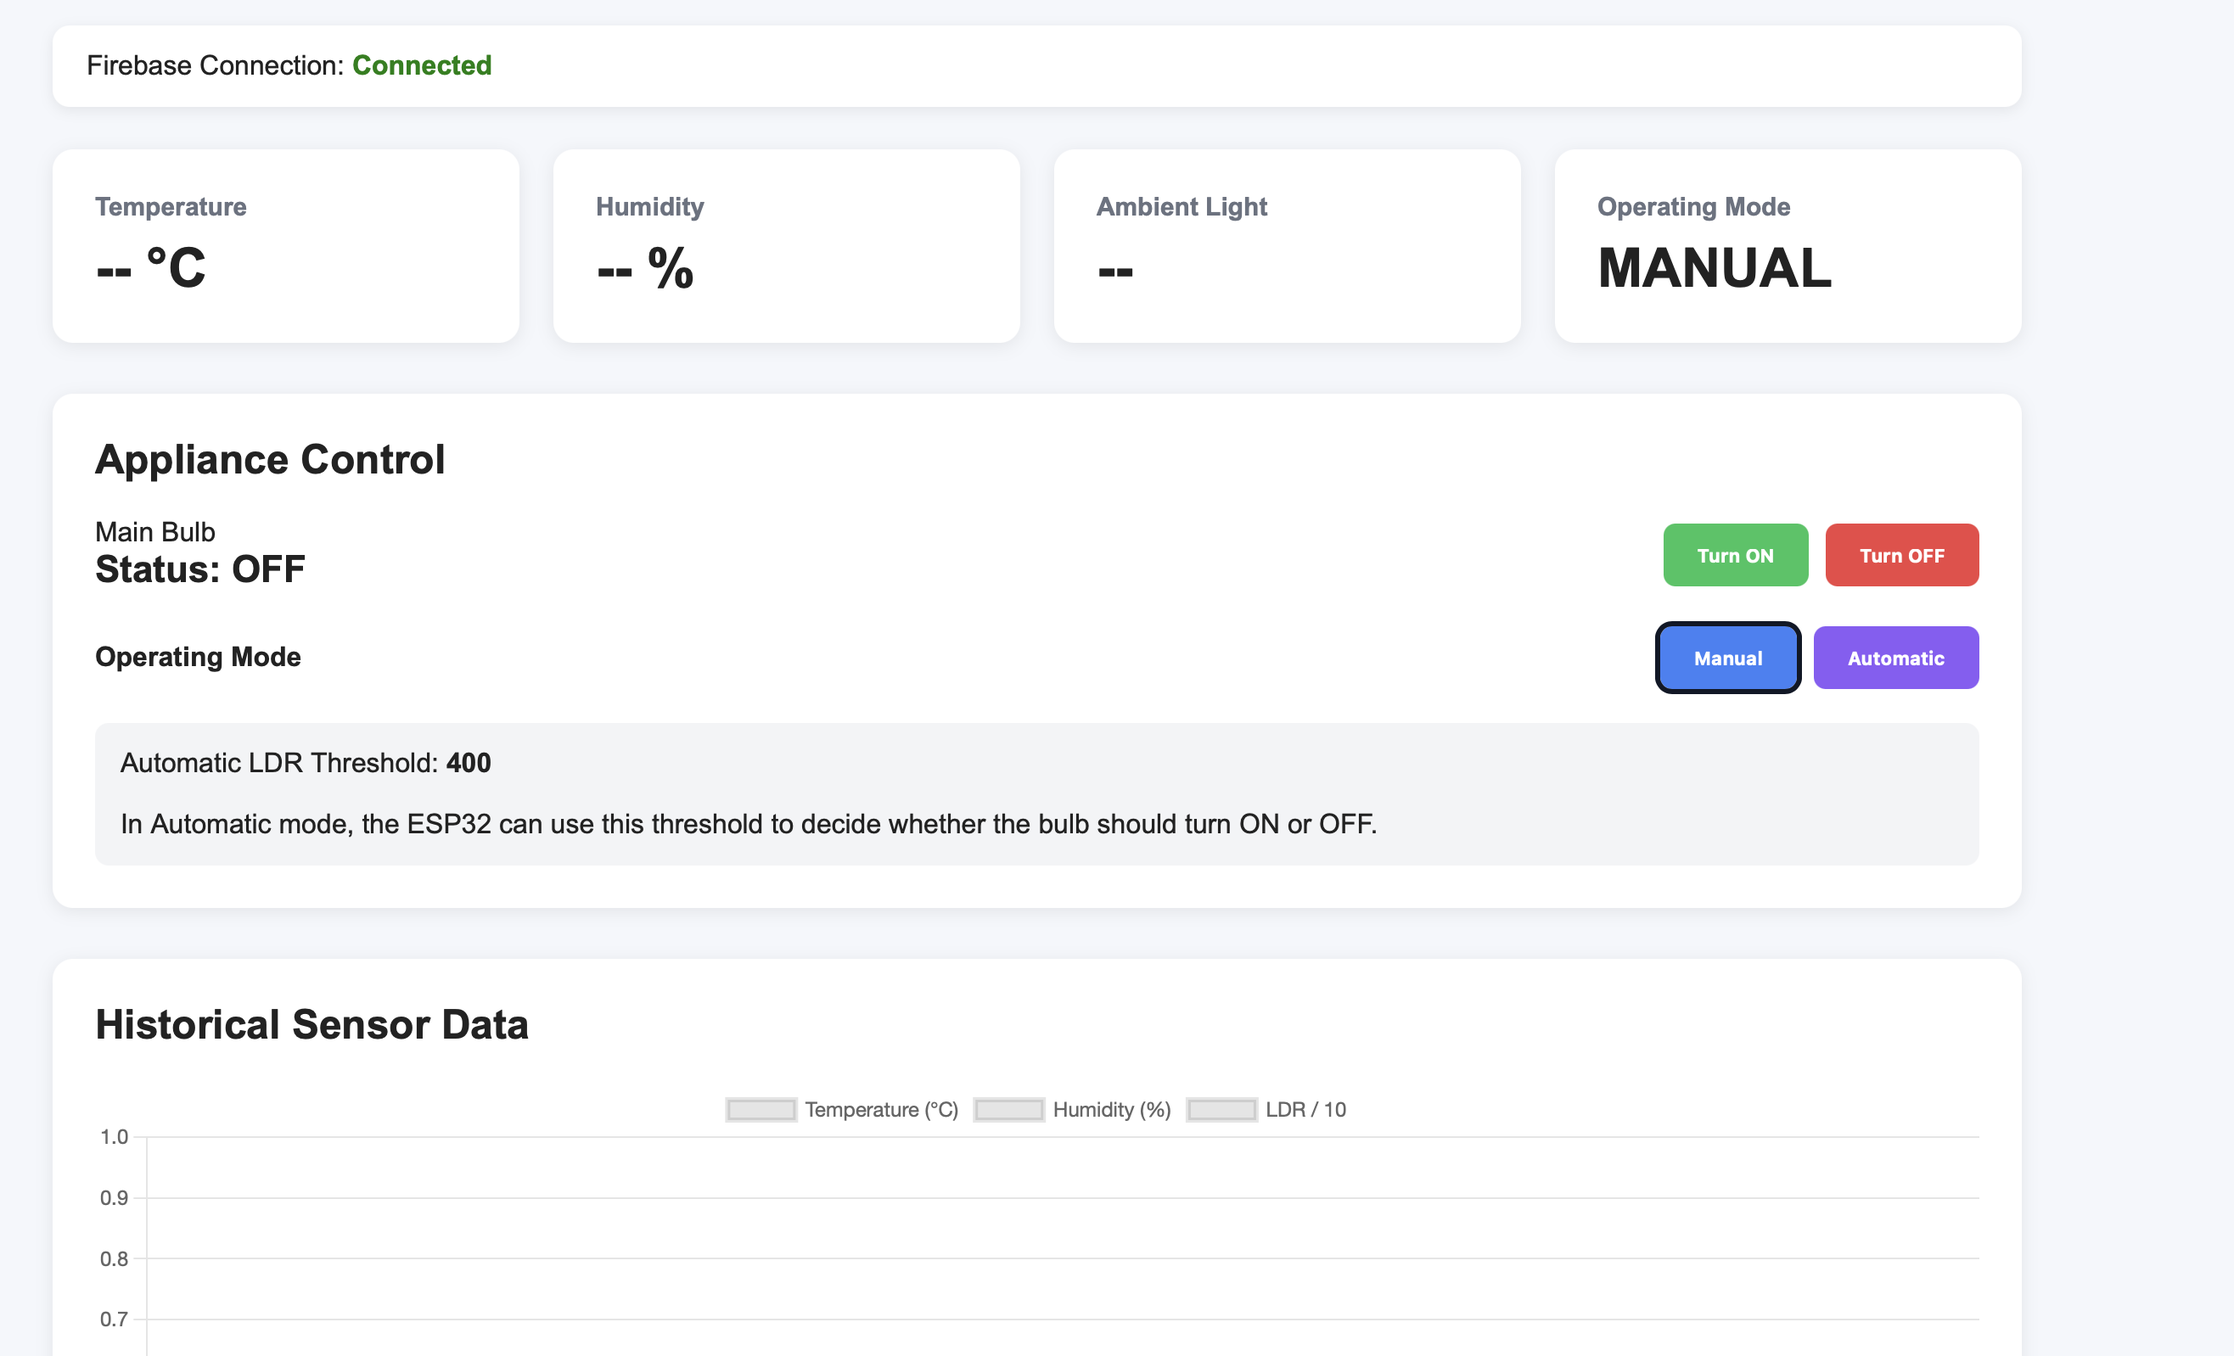
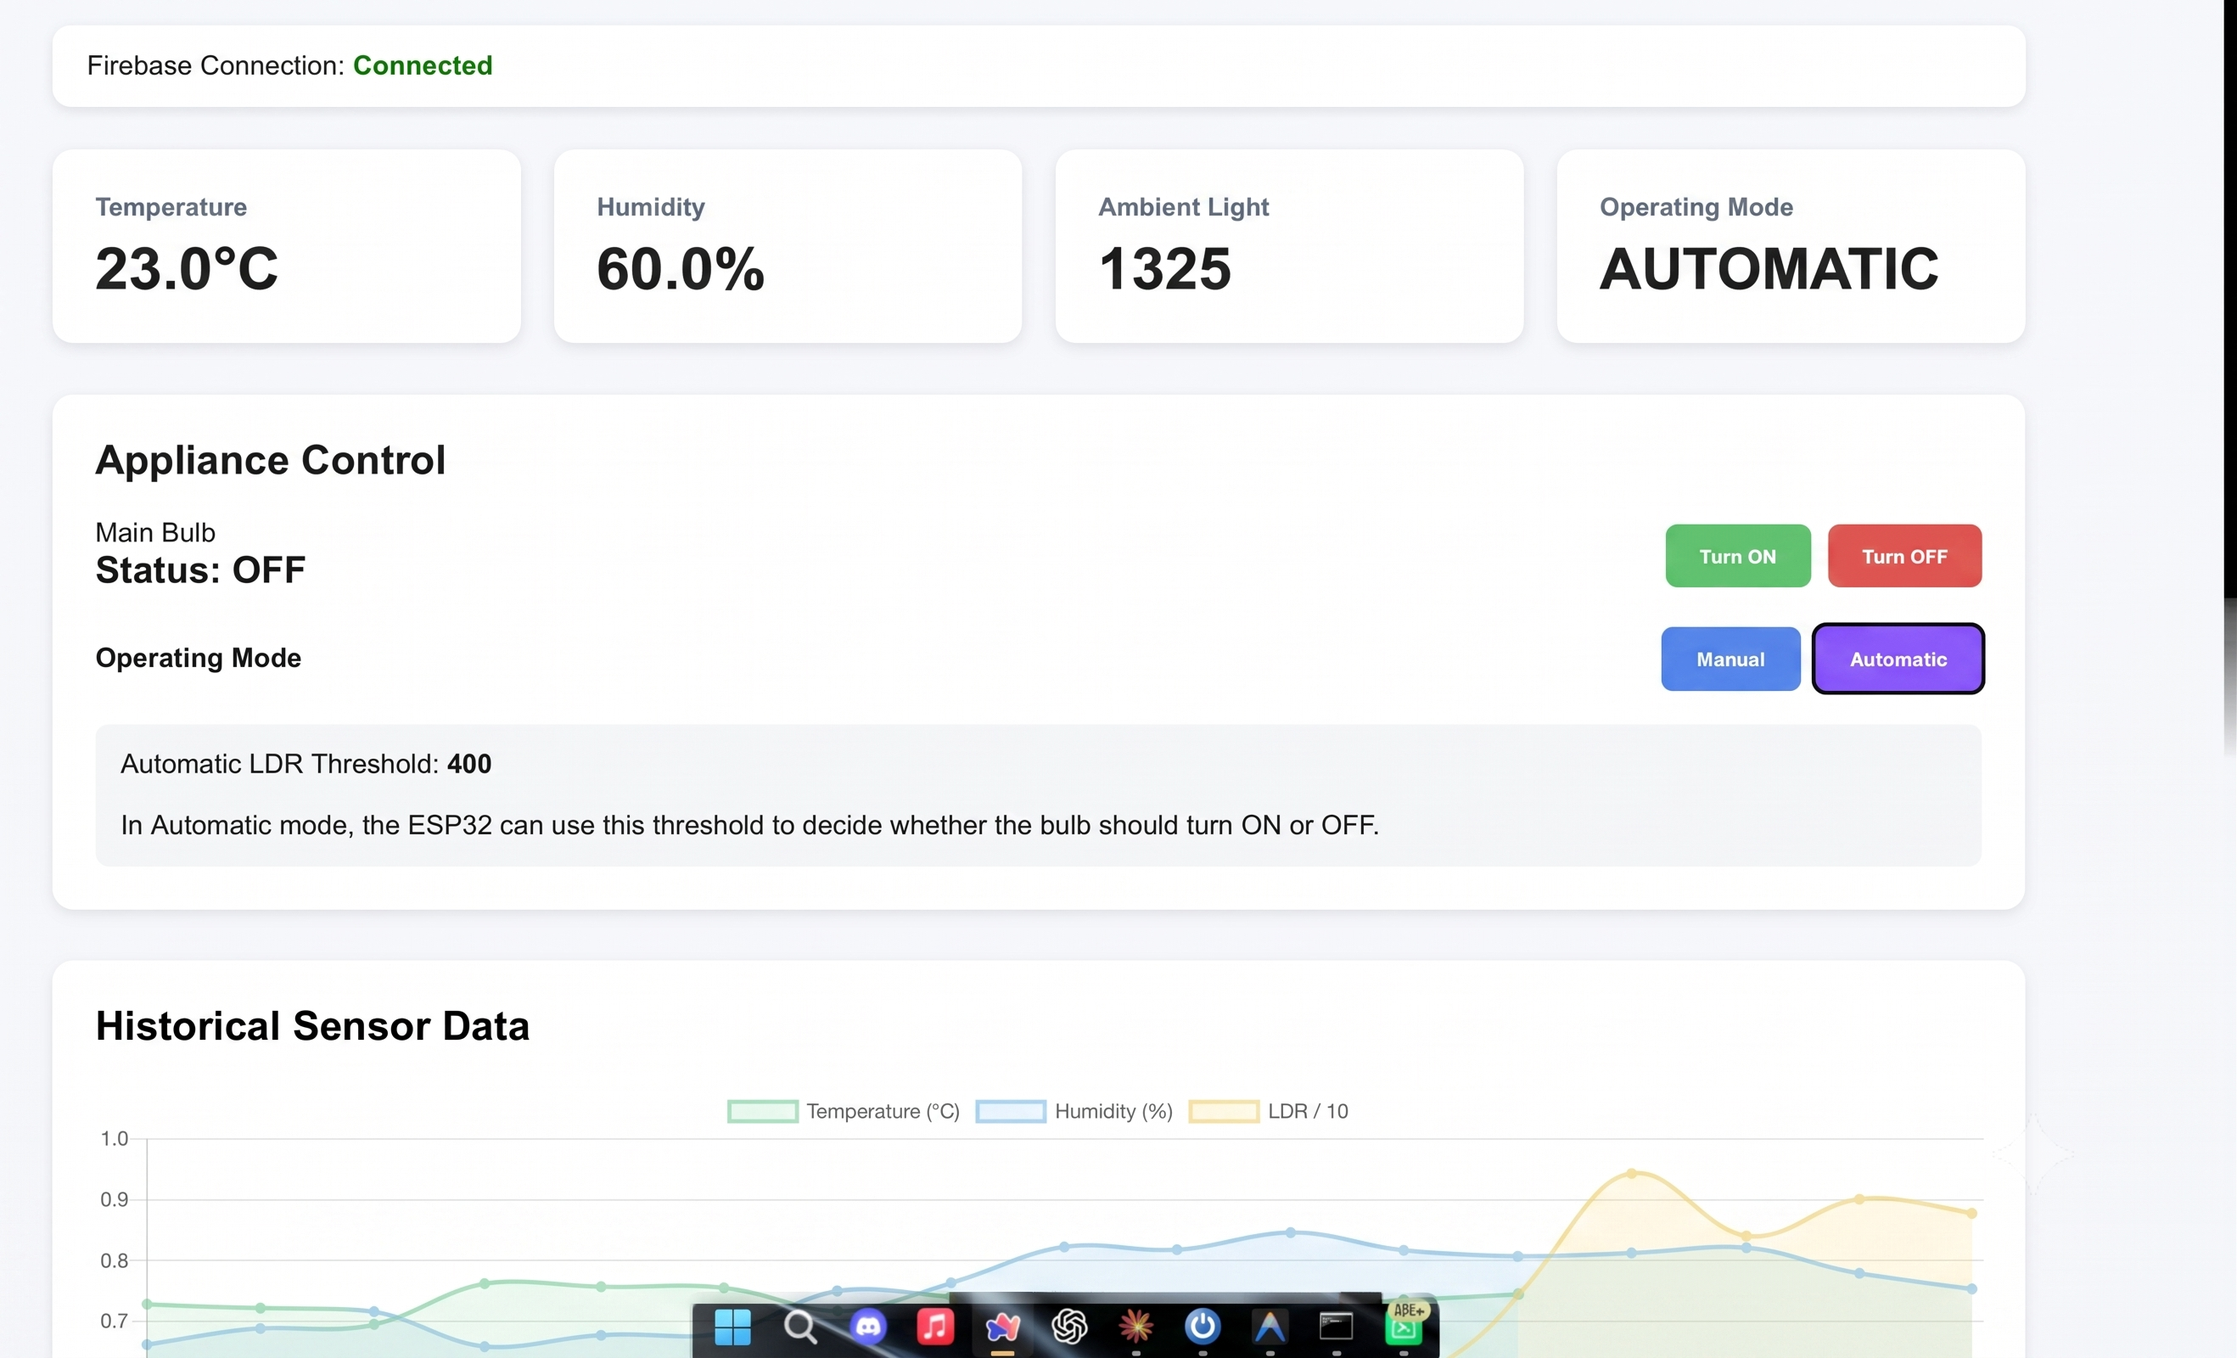
Split Task 4 into Dashboard Connection (Task 4) and Forge Smart Home (Task 5), update dashboard image

diff --git a/app/iot-session/page.tsx b/app/iot-session/page.tsx
@@ -72,7 +72,13 @@ export default function IoTSessionPage() {
                 href="#task4"
                 className="rounded-full border border-base-border bg-base-surface px-4 py-2 text-xs font-medium text-ink-muted transition-colors hover:border-signal hover:text-ink focus-ring"
               >
-                Task 4 · Forge Smart Home
+                Task 4 · Dashboard Connection
+              </a>
+              <a
+                href="#task5"
+                className="rounded-full border border-base-border bg-base-surface px-4 py-2 text-xs font-medium text-ink-muted transition-colors hover:border-signal hover:text-ink focus-ring"
+              >
+                Task 5 · Forge Smart Home
               </a>
             </div>
           </Reveal>
@@ -133,7 +139,7 @@ export default function IoTSessionPage() {
               <div className="mt-1 text-xs text-ink-faint">Cloud Integrations</div>
             </div>
             <div className="bg-base-surface p-6">
-              <div className="font-display text-3xl font-bold text-ink">4 / 4</div>
+              <div className="font-display text-3xl font-bold text-ink">5 / 5</div>
               <div className="mt-1 text-xs text-ink-faint">Tasks Complete</div>
             </div>
           </div>
@@ -184,6 +190,19 @@ export default function IoTSessionPage() {
             <div className="flex flex-col sm:flex-row sm:items-center justify-between py-5 gap-2">
               <div className="flex items-baseline gap-4">
                 <span className="font-mono text-xs text-ink-faint">04</span>
+                <div>
+                  <h3 className="font-display text-lg font-semibold text-ink">Dashboard Connection</h3>
+                  <p className="text-xs text-ink-faint mt-0.5">Firebase · Web Dashboard</p>
+                </div>
+              </div>
+              <span className="font-mono text-xs text-signal bg-signal/10 px-3 py-1 rounded-full border border-signal/30 w-fit">
+                Day 4
+              </span>
+            </div>
+
+            <div className="flex flex-col sm:flex-row sm:items-center justify-between py-5 gap-2">
+              <div className="flex items-baseline gap-4">
+                <span className="font-mono text-xs text-ink-faint">05</span>
                 <div>
                   <h3 className="font-display text-lg font-semibold text-ink">Forge Smart Home</h3>
                   <p className="text-xs text-ink-faint mt-0.5">ESP32 · Firebase · Web Dashboard</p>
@@ -559,6 +578,32 @@ void loop() {
             Task 04
           </div>
           <h2 className="font-display text-3xl md:text-4xl font-bold text-ink">
+            Dashboard Connection
+          </h2>
+          <p className="mt-2 text-xs font-mono text-ink-faint">
+            Firebase · Web Dashboard
+          </p>
+          <p className="mt-6 leading-relaxed text-ink-muted">
+            Connecting the web dashboard to the cloud backend to view real-time sensor data and control appliances.
+            A cloud-based dashboard decouples the UI from the physical hardware, allowing for global access and real-time updates.
+          </p>
+          <div className="mt-10">
+            <MediaSlot
+              type="image"
+              src="/media/iot/task4-dash/dashboard-full.jpg"
+              alt="Dashboard Connection"
+              label="Dashboard Connection Interface"
+              className="w-full shadow-2xl"
+            />
+          </div>
+        </section>
+
+        {/* ==================== TASK 5 ==================== */}
+        <section id="task5" className="scroll-mt-28 border-t border-base-border pt-16 mb-24">
+          <div className="font-mono text-xs uppercase tracking-[0.2em] text-signal font-semibold mb-3">
+            Task 05
+          </div>
+          <h2 className="font-display text-3xl md:text-4xl font-bold text-ink">
             Forge — Full-Stack Smart Home Platform
           </h2>
           <p className="mt-2 text-xs font-mono text-ink-faint">
@@ -574,7 +619,7 @@ void loop() {
           {/* EVALUATION FIX PACKAGE BADGE */}
           <div className="mt-6 rounded-xl border border-signal/40 bg-signal/10 p-4">
             <div className="flex items-center gap-2 font-display text-sm font-semibold text-signal">
-              <CheckCircle2 size={16} /> Task 4 Evaluation Fix Package Applied — All 27 Criteria &amp; Mode Logic Resolved
+              <CheckCircle2 size={16} /> Task 5 Evaluation Fix Package Applied — All 27 Criteria &amp; Mode Logic Resolved
             </div>
             <p className="mt-1 text-xs text-ink-muted leading-relaxed">
               Includes full ready-to-paste explanatory content for all 12 flagged criteria (Part A) and Issue 3 firmware/dashboard logic for Manual &amp; Automatic operating modes (Part B).
@@ -752,9 +797,9 @@ DHT11 + LDR                                              Dashboard (dashboard.js
             </p>
           </div>
 
-          {/* 4.1 HARDWARE */}
+          {/* 5.1 HARDWARE */}
           <div className="mt-12 rounded-2xl border border-base-border bg-base-surface/40 p-8">
-            <div className="font-mono text-xs text-signal uppercase tracking-wider font-semibold">Task 04.1 — Hardware</div>
+            <div className="font-mono text-xs text-signal uppercase tracking-wider font-semibold">Task 05.1 — Hardware</div>
             <h3 className="font-display text-2xl font-bold text-ink mt-2">
               ESP32 Environmental Monitoring &amp; Relay Control
             </h3>
@@ -1006,9 +1051,9 @@ void loop() {
             />
           </div>
 
-          {/* 4.2 CLOUD */}
+          {/* 5.2 CLOUD */}
           <div className="mt-8 rounded-2xl border border-base-border bg-base-surface/40 p-8">
-            <div className="font-mono text-xs text-signal uppercase tracking-wider font-semibold">Task 04.2 — Cloud</div>
+            <div className="font-mono text-xs text-signal uppercase tracking-wider font-semibold">Task 05.2 — Cloud</div>
             <h3 className="font-display text-2xl font-bold text-ink mt-2">
               Firebase Cloud Backend &amp; Real-Time Sync
             </h3>
@@ -1110,9 +1155,9 @@ void loop() {
             </div>
           </div>
 
-          {/* 4.3 DASHBOARD */}
+          {/* 5.3 DASHBOARD */}
           <div className="mt-8 rounded-2xl border border-base-border bg-base-surface/40 p-8">
-            <div className="font-mono text-xs text-signal uppercase tracking-wider font-semibold">Task 04.3 — Dashboard</div>
+            <div className="font-mono text-xs text-signal uppercase tracking-wider font-semibold">Task 05.3 — Dashboard</div>
             <h3 className="font-display text-2xl font-bold text-ink mt-2">
               Web Dashboard &amp; User Interface
             </h3>

diff --git a/app/iot/page.tsx b/app/iot/page.tsx
@@ -63,7 +63,13 @@ export default function IoTPage() {
                 href="#task4"
                 className="rounded-full border border-base-border bg-base-surface px-4 py-2 text-xs font-medium text-ink-muted transition-colors hover:border-signal hover:text-ink focus-ring"
               >
-                Task 4 · Forge Smart Home
+                Task 4 · Dashboard Connection
+              </a>
+              <a
+                href="#task5"
+                className="rounded-full border border-base-border bg-base-surface px-4 py-2 text-xs font-medium text-ink-muted transition-colors hover:border-signal hover:text-ink focus-ring"
+              >
+                Task 5 · Forge Smart Home
               </a>
             </div>
           </Reveal>
@@ -124,7 +130,7 @@ export default function IoTPage() {
               <div className="mt-1 text-xs text-ink-faint">Cloud Integrations</div>
             </div>
             <div className="bg-base-surface p-6">
-              <div className="font-display text-3xl font-bold text-ink">4 / 4</div>
+              <div className="font-display text-3xl font-bold text-ink">5 / 5</div>
               <div className="mt-1 text-xs text-ink-faint">Tasks Complete</div>
             </div>
           </div>
@@ -175,6 +181,19 @@ export default function IoTPage() {
             <div className="flex flex-col sm:flex-row sm:items-center justify-between py-5 gap-2">
               <div className="flex items-baseline gap-4">
                 <span className="font-mono text-xs text-ink-faint">04</span>
+                <div>
+                  <h3 className="font-display text-lg font-semibold text-ink">Dashboard Connection</h3>
+                  <p className="text-xs text-ink-faint mt-0.5">Firebase · Web Dashboard</p>
+                </div>
+              </div>
+              <span className="font-mono text-xs text-signal bg-signal/10 px-3 py-1 rounded-full border border-signal/30 w-fit">
+                Day 4
+              </span>
+            </div>
+
+            <div className="flex flex-col sm:flex-row sm:items-center justify-between py-5 gap-2">
+              <div className="flex items-baseline gap-4">
+                <span className="font-mono text-xs text-ink-faint">05</span>
                 <div>
                   <h3 className="font-display text-lg font-semibold text-ink">Forge Smart Home</h3>
                   <p className="text-xs text-ink-faint mt-0.5">ESP32 · Firebase · Web Dashboard</p>
@@ -550,6 +569,32 @@ void loop() {
             Task 04
           </div>
           <h2 className="font-display text-3xl md:text-4xl font-bold text-ink">
+            Dashboard Connection
+          </h2>
+          <p className="mt-2 text-xs font-mono text-ink-faint">
+            Firebase · Web Dashboard
+          </p>
+          <p className="mt-6 leading-relaxed text-ink-muted">
+            Connecting the web dashboard to the cloud backend to view real-time sensor data and control appliances.
+            A cloud-based dashboard decouples the UI from the physical hardware, allowing for global access and real-time updates.
+          </p>
+          <div className="mt-10">
+            <MediaSlot
+              type="image"
+              src="/media/iot/task4-dash/dashboard-full.jpg"
+              alt="Dashboard Connection"
+              label="Dashboard Connection Interface"
+              className="w-full shadow-2xl"
+            />
+          </div>
+        </section>
+
+        {/* ==================== TASK 5 ==================== */}
+        <section id="task5" className="scroll-mt-28 border-t border-base-border pt-16 mb-24">
+          <div className="font-mono text-xs uppercase tracking-[0.2em] text-signal font-semibold mb-3">
+            Task 05
+          </div>
+          <h2 className="font-display text-3xl md:text-4xl font-bold text-ink">
             Forge — Full-Stack Smart Home Platform
           </h2>
           <p className="mt-2 text-xs font-mono text-ink-faint">
@@ -565,7 +610,7 @@ void loop() {
           {/* EVALUATION FIX PACKAGE BADGE */}
           <div className="mt-6 rounded-xl border border-signal/40 bg-signal/10 p-4">
             <div className="flex items-center gap-2 font-display text-sm font-semibold text-signal">
-              <CheckCircle2 size={16} /> Task 4 Evaluation Fix Package Applied — All 27 Criteria &amp; Mode Logic Resolved
+              <CheckCircle2 size={16} /> Task 5 Evaluation Fix Package Applied — All 27 Criteria &amp; Mode Logic Resolved
             </div>
             <p className="mt-1 text-xs text-ink-muted leading-relaxed">
               Includes full ready-to-paste explanatory content for all 12 flagged criteria (Part A) and Issue 3 firmware/dashboard logic for Manual &amp; Automatic operating modes (Part B).
@@ -743,9 +788,9 @@ DHT11 + LDR                                              Dashboard (dashboard.js
             </p>
           </div>
 
-          {/* 4.1 HARDWARE */}
+          {/* 5.1 HARDWARE */}
           <div className="mt-12 rounded-2xl border border-base-border bg-base-surface/40 p-8">
-            <div className="font-mono text-xs text-signal uppercase tracking-wider font-semibold">Task 04.1 — Hardware</div>
+            <div className="font-mono text-xs text-signal uppercase tracking-wider font-semibold">Task 05.1 — Hardware</div>
             <h3 className="font-display text-2xl font-bold text-ink mt-2">
               ESP32 Environmental Monitoring &amp; Relay Control
             </h3>
@@ -997,9 +1042,9 @@ void loop() {
             />
           </div>
 
-          {/* 4.2 CLOUD */}
+          {/* 5.2 CLOUD */}
           <div className="mt-8 rounded-2xl border border-base-border bg-base-surface/40 p-8">
-            <div className="font-mono text-xs text-signal uppercase tracking-wider font-semibold">Task 04.2 — Cloud</div>
+            <div className="font-mono text-xs text-signal uppercase tracking-wider font-semibold">Task 05.2 — Cloud</div>
             <h3 className="font-display text-2xl font-bold text-ink mt-2">
               Firebase Cloud Backend &amp; Real-Time Sync
             </h3>
@@ -1101,9 +1146,9 @@ void loop() {
             </div>
           </div>
 
-          {/* 4.3 DASHBOARD */}
+          {/* 5.3 DASHBOARD */}
           <div className="mt-8 rounded-2xl border border-base-border bg-base-surface/40 p-8">
-            <div className="font-mono text-xs text-signal uppercase tracking-wider font-semibold">Task 04.3 — Dashboard</div>
+            <div className="font-mono text-xs text-signal uppercase tracking-wider font-semibold">Task 05.3 — Dashboard</div>
             <h3 className="font-display text-2xl font-bold text-ink mt-2">
               Web Dashboard &amp; User Interface
             </h3>

diff --git a/data/iot.ts b/data/iot.ts
@@ -90,7 +90,27 @@ export const iotSessions: IoTSession[] = [
   },
   {
     id: 4,
-    title: "Task 4 — Forge Full-Stack Smart Home Platform",
+    title: "Task 4 — Dashboard Connection",
+    date: "Day 4",
+    status: "complete",
+    tags: ["Firebase", "Web Dashboard", "UI"],
+    summary:
+      "Connecting the web dashboard to the cloud backend to view real-time sensor data and control appliances.",
+    reflection:
+      "A cloud-based dashboard decouples the UI from the physical hardware, allowing for global access and real-time updates.",
+    learnings: [
+      "Designed the layout for real-time sensor data visualization.",
+      "Connected UI components to Firebase RTDB streams.",
+    ],
+    hero: "/media/iot/task4-dash/dashboard-full.jpg",
+    gallery: [
+      "/media/iot/task4-dash/dashboard-full.jpg",
+    ],
+    pdf: "/pdfs/iot-session-4.pdf",
+  },
+  {
+    id: 5,
+    title: "Task 5 — Forge Full-Stack Smart Home Platform",
     date: "Intermediate",
     status: "complete",
     tags: ["Firebase RTDB", "DHT11", "LDR", "React / Web Dashboard", "Full Stack"],
@@ -111,7 +131,7 @@ export const iotSessions: IoTSession[] = [
       "/media/iot/task4-dash/dashboard-full.jpg",
       "/media/iot/task4-cloud/rtdb-console.jpg",
     ],
-    pdf: "/pdfs/iot-session-4.pdf",
+    pdf: "/pdfs/iot-session-5.pdf",
   },
 ];
 

diff --git a/data/protosem.ts b/data/protosem.ts
@@ -772,7 +772,22 @@ export const protosemWeeks: ProtosemWeek[] = [
           ],
         },
         {
-          heading: "Task 4 — Forge Full-Stack Smart Home Platform",
+          heading: "Task 4 — Dashboard Connection",
+          content: [
+            {
+              type: "paragraph",
+              text: "Connecting the web dashboard to the cloud backend to view real-time sensor data and control appliances. A cloud-based dashboard decouples the UI from the physical hardware, allowing for global access and real-time updates.",
+            },
+            {
+              type: "image",
+              src: "/media/iot/task4-dash/dashboard-full.jpg",
+              alt: "Dashboard Connection Interface",
+              caption: "Web Dashboard Interface connected to Firebase Realtime Database for live telemetry.",
+            },
+          ],
+        },
+        {
+          heading: "Task 5 — Forge Full-Stack Smart Home Platform",
           content: [
             {
               type: "paragraph",
